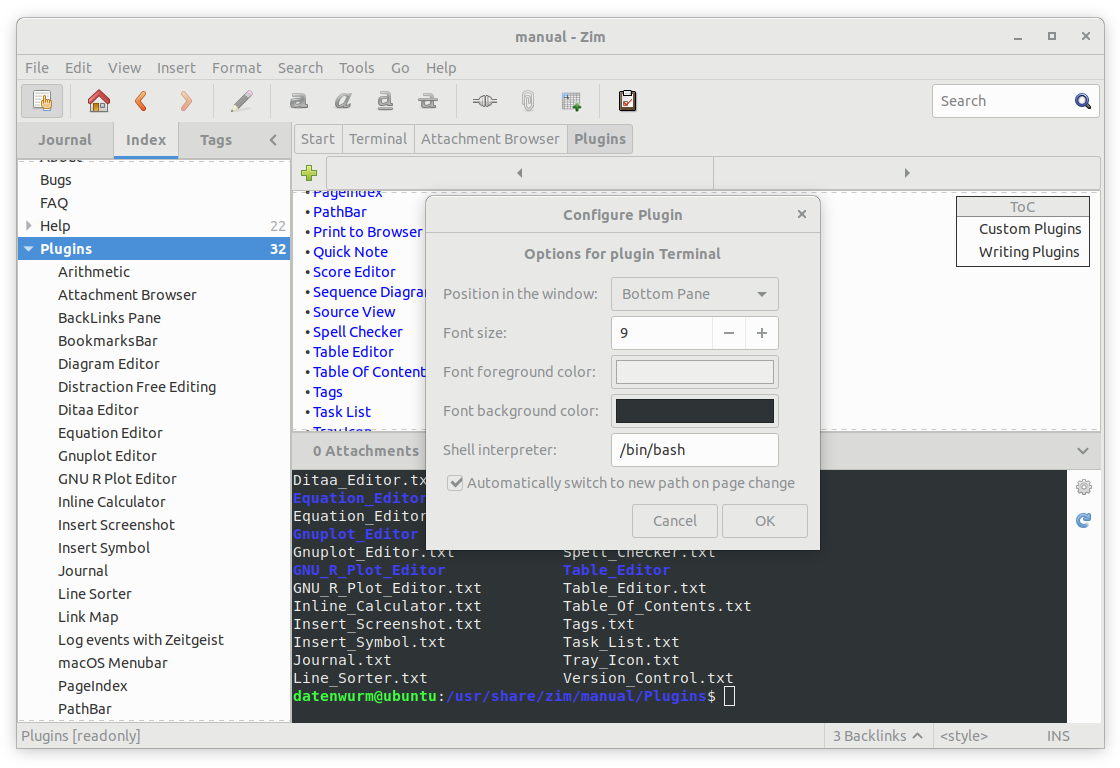
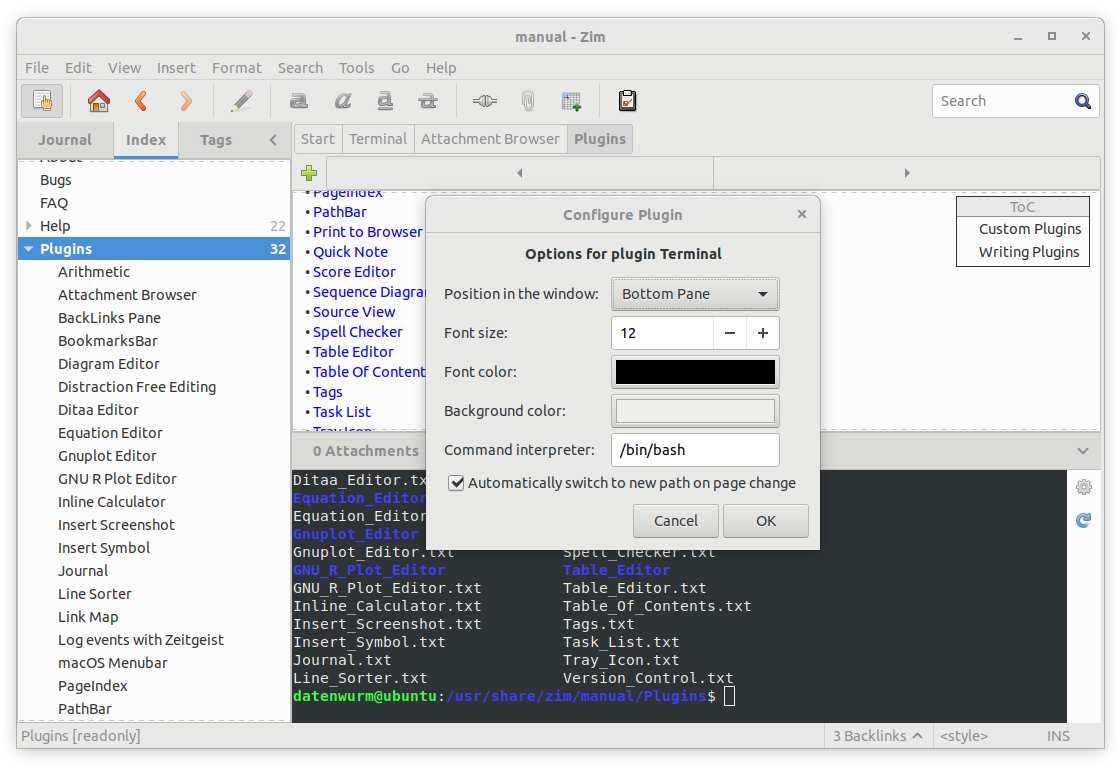
Fixed font size adjustment and renamed properties

diff --git a/terminal.py b/terminal.py
@@ -42,18 +42,18 @@ logger = logging.getLogger('zim.plugins.terminal')
 FONT_SIZE_MIN = 6
 FONT_SIZE_MAX = 72
 DEFAULT_FONT_SIZE = 9
-DEFAULT_FONT_FOREGROUND_COLOR = "#FFFFFF"
-DEFAULT_FONT_BACKGROUND_COLOR = "#000000"
+DEFAULT_FONT_COLOR = "#FFFFFF"
+DEFAULT_BACKGROUND_COLOR = "#000000"
 
 if platform.system() == "Darwin":
-	DEFAULT_SHELL_INTERPRETER = "/bin/bash"
-	DEFAULT_SHELL_CLEAR_COMMAND = "clear\n"
+	DEFAULT_COMMAND_INTERPRETER = "/bin/bash"
+	CLEAR_COMMAND = "clear\n"
 elif platform.system() == "Linux":
-	DEFAULT_SHELL_INTERPRETER = "/bin/bash"
-	DEFAULT_SHELL_CLEAR_COMMAND = "clear\n"
+	DEFAULT_COMMAND_INTERPRETER = "/bin/bash"
+	CLEAR_COMMAND = "clear\n"
 elif platform.system() == "Windows":
-	DEFAULT_SHELL_INTERPRETER = "cmd.exe"
-	DEFAULT_SHELL_CLEAR_COMMAND = "cls\r\n"
+	DEFAULT_COMMAND_INTERPRETER = "cmd.exe"
+	CLEAR_COMMAND = "cls\r\n"
 
 DEFAULT_AUTO_SWITCH_PATH_ON_PAGE_CHANGE = True
 
@@ -70,9 +70,9 @@ class TerminalPlugin(PluginClass):
 		# key, type, label, default
 		('pane', 'choice', _('Position in the window'), BOTTOM_PANE, PANE_POSITIONS),
 		('font_size', 'int', _('Font size'), DEFAULT_FONT_SIZE, (FONT_SIZE_MIN, FONT_SIZE_MAX)),
-		('font_foreground_color', 'color', _('Font foreground color'), DEFAULT_FONT_FOREGROUND_COLOR),
-		('font_background_color', 'color', _('Font background color'), DEFAULT_FONT_BACKGROUND_COLOR),
-		('shell_interpreter', 'string', _('Shell interpreter'), DEFAULT_SHELL_INTERPRETER),
+		('font_color', 'color', _('Font color'), DEFAULT_FONT_COLOR),
+		('background_color', 'color', _('Background color'), DEFAULT_BACKGROUND_COLOR),
+		('command_interpreter', 'string', _('Command interpreter'), DEFAULT_COMMAND_INTERPRETER),
 		('auto_switch_path_on_page_change', 'bool', _('Automatically switch to new path on page change'),
 		 DEFAULT_AUTO_SWITCH_PATH_ON_PAGE_CHANGE),
 	)
@@ -106,13 +106,6 @@ class TerminalPluginWidget(Gtk.HBox, WindowSidePaneWidget):
 
 	title = _('Terminal') # T: label for pane
 
-	font_size = uistate_property('font_size', DEFAULT_FONT_SIZE)
-	font_foreground_color = uistate_property('font_foreground_color', DEFAULT_FONT_FOREGROUND_COLOR)
-	font_background_color = uistate_property('font_background_color', DEFAULT_FONT_BACKGROUND_COLOR)
-	shell_interpreter = uistate_property('shell_interpreter', DEFAULT_SHELL_INTERPRETER)
-	auto_switch_path_on_page_change = uistate_property('auto_switch_path_on_page_change',
-														DEFAULT_AUTO_SWITCH_PATH_ON_PAGE_CHANGE)
-
 	def __init__(self, plugin, window, uistate):
 		GObject.GObject.__init__(self)
 		self.plugin = plugin
@@ -125,7 +118,7 @@ class TerminalPluginWidget(Gtk.HBox, WindowSidePaneWidget):
 		self.terminalview.spawn_sync(
 			Vte.PtyFlags.DEFAULT,
 			os.environ['HOME'],
-			[self.shell_interpreter],
+			[self.command_interpreter],
 			[],
 			GLib.SpawnFlags.DO_NOT_REAP_CHILD,
 			None,
@@ -149,14 +142,16 @@ class TerminalPluginWidget(Gtk.HBox, WindowSidePaneWidget):
 		self.buttonbox.pack_start(change_path_button, False, True, 0)
 
 	def on_preferences_changed(self, *a):
-		self.terminalview.set_color_foreground(self.font_foreground_color)
-		self.terminalview.set_color_background(self.font_background_color)
+		self.terminalview.set_color_foreground(self.font_color)
+		self.terminalview.set_color_background(self.background_color)
 		font = self.terminalview.get_font()
-		font.set_size(16 * Pango.SCALE)
-		
+		font.set_size(self.font_size * Pango.SCALE)
+		self.terminalview.set_font(font)
+
 	def on_properties_button(self):
 		""" Writes the path to the current wiki page to the terminal. """
 		PluginConfigureDialog(self.window, self.plugin).run()
+		self.refresh_path()
 
 	def on_change_path_button(self):
 		self.refresh_path()
@@ -166,14 +161,14 @@ class TerminalPluginWidget(Gtk.HBox, WindowSidePaneWidget):
 		self.terminalview.spawn_sync(
 			Vte.PtyFlags.DEFAULT,
 			self.path,
-			[self.shell_interpreter],
+			[self.command_interpreter],
 			[],
 			GLib.SpawnFlags.DO_NOT_REAP_CHILD,
 			None,
 			None,
 		)
 		# Clear screen after terminal refresh
-		self.terminalview.feed_child(DEFAULT_SHELL_CLEAR_COMMAND, len(DEFAULT_SHELL_CLEAR_COMMAND))
+		self.terminalview.feed_child(CLEAR_COMMAND, len(CLEAR_COMMAND))
 
 	def set_folder(self, folder):
 		self.folder = folder
@@ -181,16 +176,24 @@ class TerminalPluginWidget(Gtk.HBox, WindowSidePaneWidget):
 			self.refresh_path()
 
 	@property
-	def font_foreground_color(self):
+	def font_size(self):
+		return self.preferences['font_size']
+
+	@property
+	def font_color(self):
 		rgba = Gdk.RGBA()
-		rgba.parse(self.preferences['font_foreground_color'])
+		rgba.parse(self.preferences['font_color'])
 		return rgba
 
 	@property
-	def font_background_color(self):
+	def background_color(self):
 		rgba = Gdk.RGBA()
-		rgba.parse(self.preferences['font_background_color'])
+		rgba.parse(self.preferences['background_color'])
 		return rgba
+
+	@property
+	def command_interpreter(self):
+		return self.preferences["command_interpreter"]
 
 	@property
 	def path(self):

diff --git a/README.md b/README.md
@@ -1,4 +1,4 @@
-# zim-plugin-terminal
+# Zim Terminal Plugin
 
 This plugin shows a terminal at the bottom pane.
 
